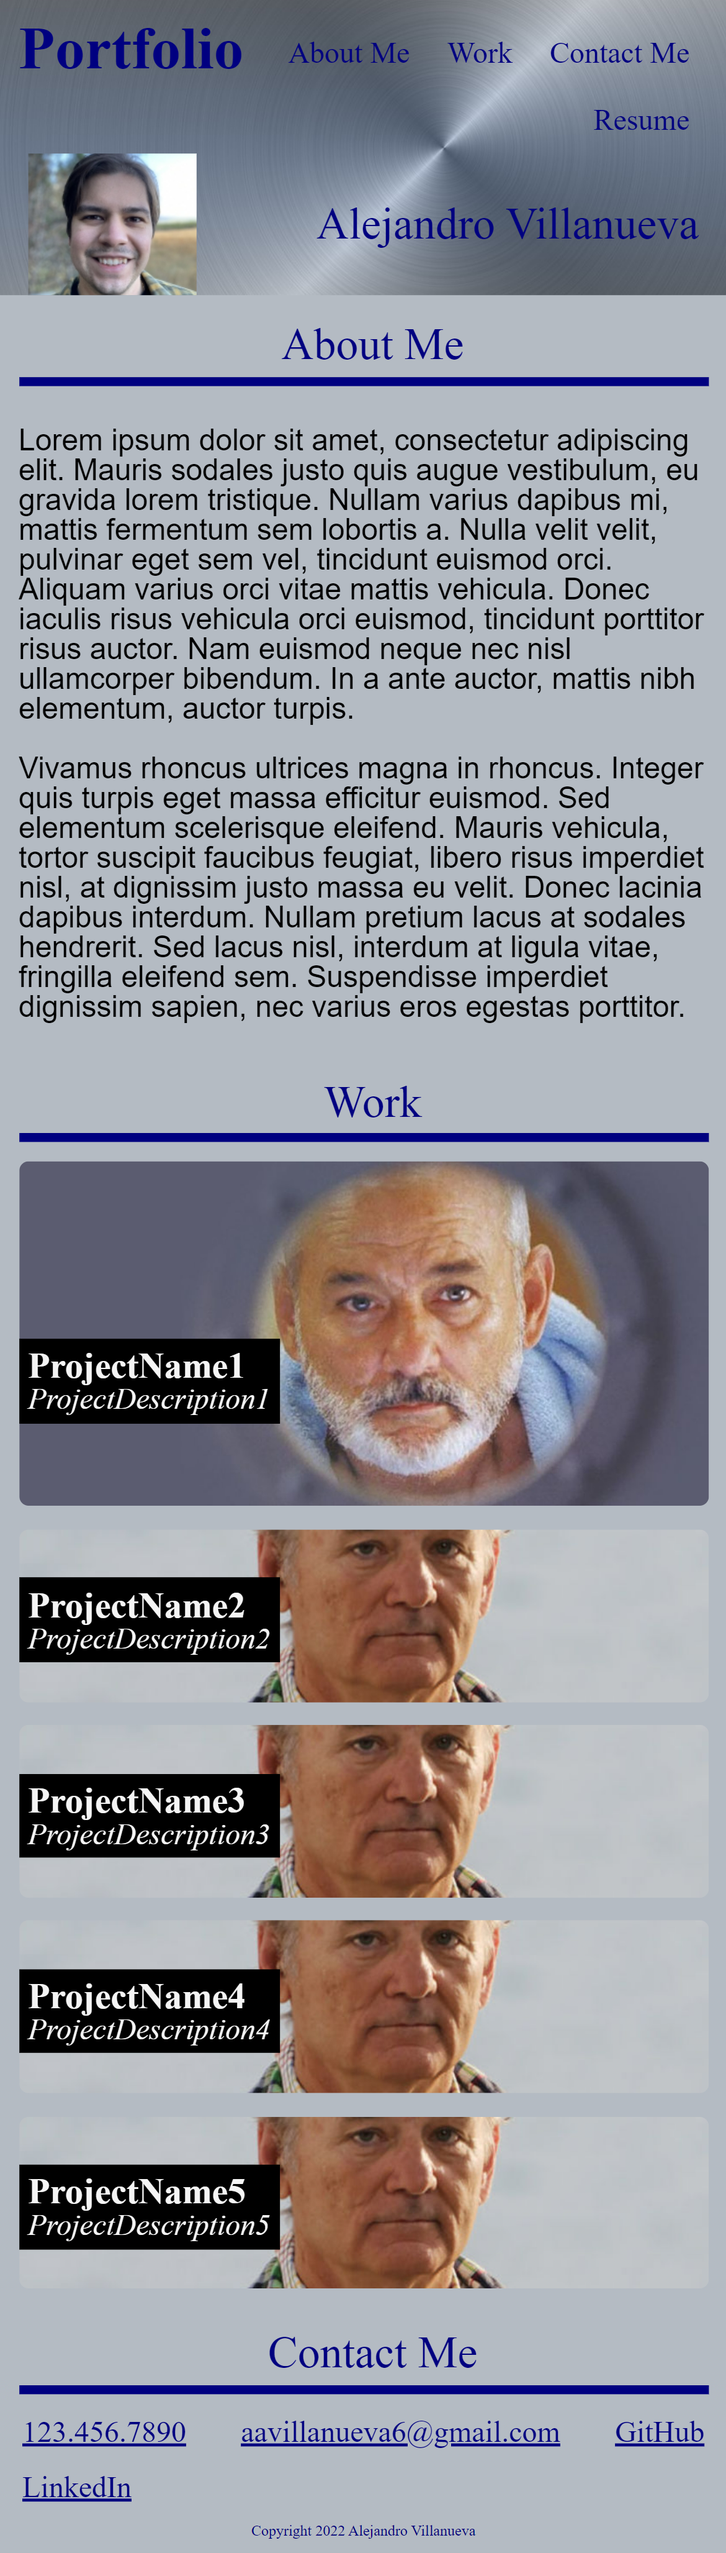
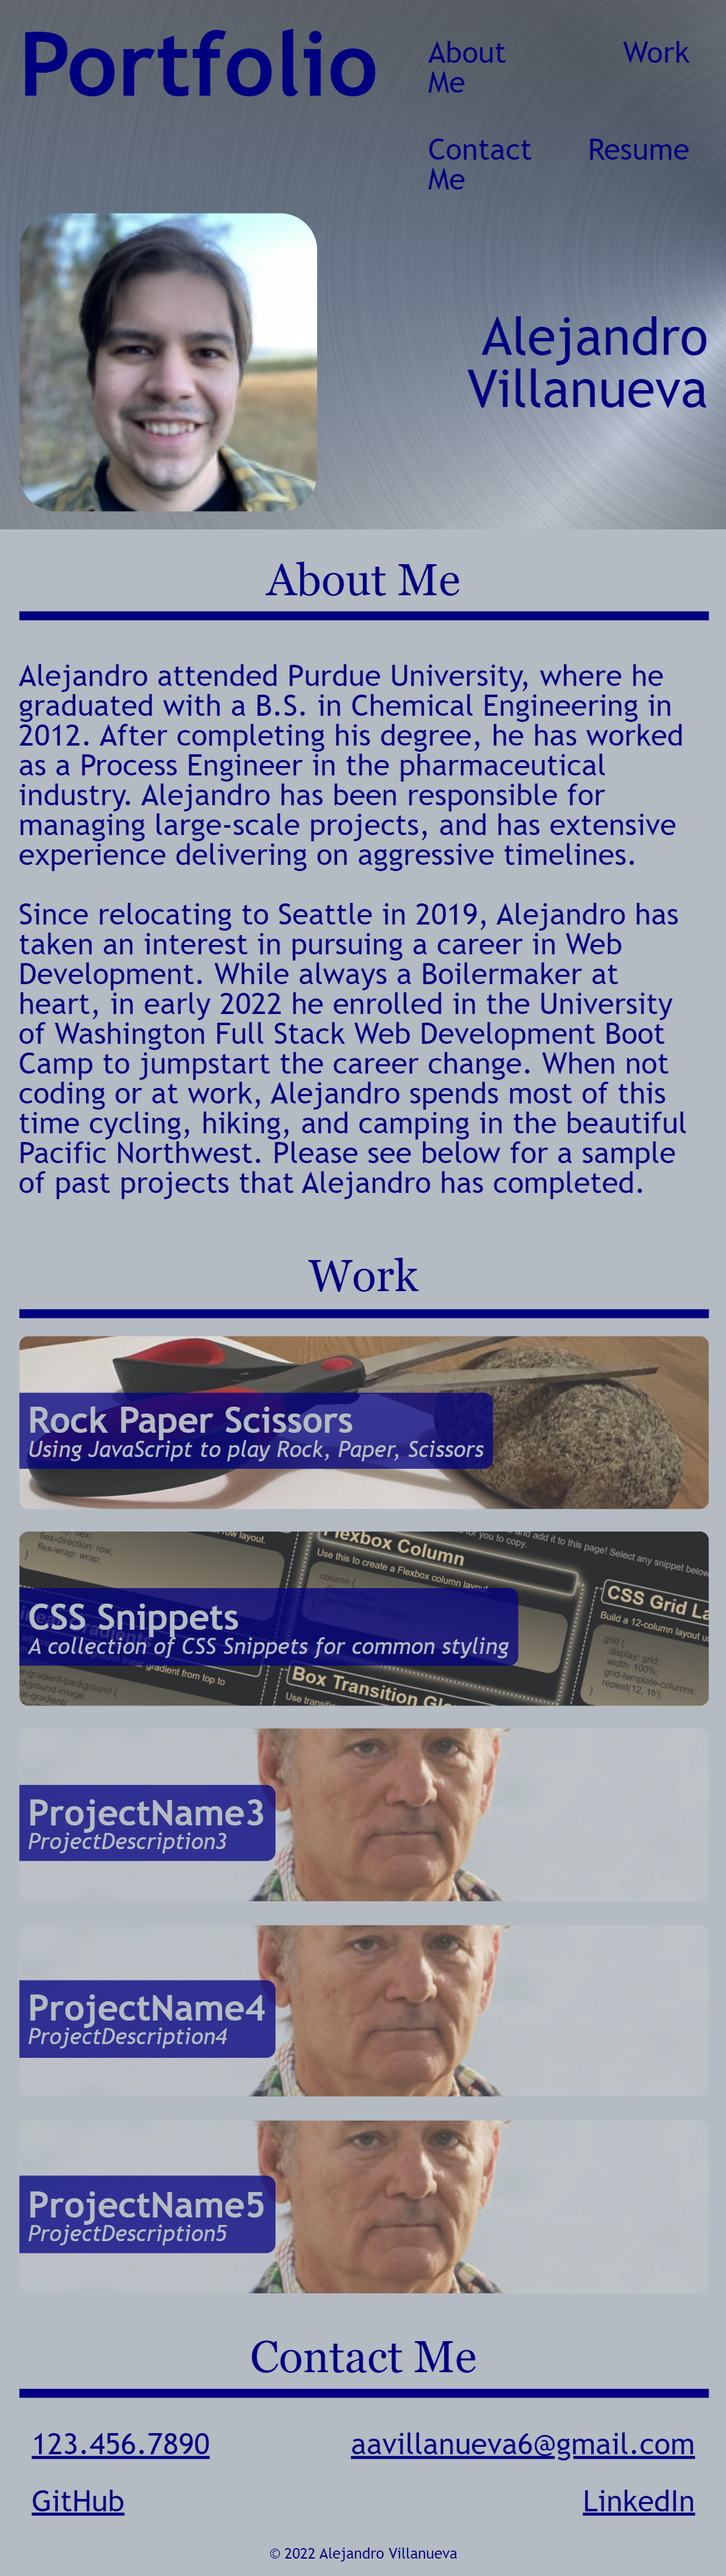
adds to README, updates screenshots with most recent push, adds real phone number to html

diff --git a/index.html b/index.html
@@ -111,7 +111,7 @@
             <section class="contactSection sansSerif">
                 <ul id="contactList">
                     <li>
-                        <a href="tel:+11234567890">123.456.7890</a>
+                        <a href="tel:+15742107562">574.210.7562</a>
                         <!-- Placeholder telephone number -->
                     </li>
                     <li>

diff --git a/README.md b/README.md
@@ -1,19 +1,31 @@
 # Alejandro Villanueva's Portfolio #
-
+## Purpose and Functionality ##
 This project holds links to relevant projects that I have completed, as well as holds links to my professional social media, and resume.  
 
+
+Currently only two actual projects are added to the portfolio.  Additional placeholder projects are added to show site functionality when more projects have been completed.
+
+## Key Learnings ##
+
+* Site uses flex boxes and media queries to make it responsive and have consistent styling.
+* Site uses pseudo classes to add effects while hovering over the project cards.  This allows for the images to be highlighted while hovered.
+* Strengthened proficiency with html and css.  
+* Created favicon by custom designing an .svg image.
+    * Learned proper formatting for favicon images for Apple touch devices
+    * (may still have some learning to do with Android devices.  I don't have one to test with.)
 
 
 Deployed site hosted on GitHub pages at the following link:
 
 https://aavillanueva6.github.io/VillanuevaAlejandroPortfolio/
 
-known bugs
-- README needs screenshots of the deployed site
-
+<br>
 Screenshots of the deployed site are below:
+
+## A screenshot of the site as formatted for a mobile phone. ##
 
 ![A screenshot of the desktop version of the mobile site.](./assets/images/screenshots/aavillanueva6.github.io_VillanuevaAlejandroPortfolio_(iPhone_12_Pro).png)
 
+## A screenshot of the site as formatted for a wide screen (desktop/laptop) ## 
 
 ![A screenshot of the desktop version of the mobile site.](./assets/images/screenshots/aavillanueva6.github.io_VillanuevaAlejandroPortfolio_.png)
